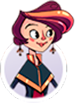
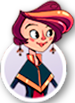
OperatingSystemApp: Edit design
- Application of new hover masks design for each subsystem
- Smoother fade-out effect for hover masks when moving out of any hover
  state
- Addition of EOS version text (1234) inside of the Operating System
  subsystem section
- Replace all character avatars thumbnails that show up next to each
  dialog bubble
- All subsystem hover masks are incomplete in the bottom border
  Hovers in the design didn't consider the whole screen height (even the
  OS toolbar height). When viewing the application on a secondary screen,
  for example, where you don't see the OS toolbar, the hover masks were
  cut down showing an empty horizontal bar.

https://phabricator.endlessm.com/T25730

diff --git a/com.endlessm.OperatingSystemApp/app/ui/styles.css b/com.endlessm.OperatingSystemApp/app/ui/styles.css
@@ -12,6 +12,10 @@
   box-sizing: border-box;
 }
 
+body {
+  top: -35px;
+}
+
 .clearfix:after,
 .clearfix:before {
   display: table;
@@ -30,31 +34,18 @@
   opacity: 0;
   position: absolute;
   right: 0;
-  top: -38px;
-  transition: opacity 0.5s ease-in-out;
+  top: 0;
   width: 1920px;
   z-index: 500;
 }
 
 .ui__mask.visible {
-  opacity: 0.55 !important;
-  transition: opacity 0.5s linear;
+  opacity: 1 !important;
+  transition: opacity 0.5s ease-out;
 }
 .ui__mask.hidden {
   opacity: 0;
-  transition: opacity 0.5s linear;
-}
-
-.ui__mask:after {
-  background-color: rgb(7, 8, 88);
-  bottom: -500px;
-  content: "\0020";
-  height: 500px;
-  left: 0;
-  position: absolute;
-  right: 0;
-  width: 1920px;
-  z-index: 500;
+  transition: opacity 0.7s ease-in;
 }
 
 .ui__mask.cursor_mask {
@@ -86,7 +77,7 @@
 }
 
 .ui__mask.system_mask {
-  background-color: rgb(7, 8, 88);
+  background-image: url('../images/hovers/system_mask.png');
 }
 
 .ui__mask.daemons_mask {
@@ -108,6 +99,19 @@
 
 .whole:hover {
   background-image: url(../images/system-icon-hover.png);
+}
+
+.whole-title {
+  color: white;
+  display: none;
+  font-family: Metropolis;
+  font-size: 24.4px;
+  font-weight: 400;
+  left: 135px;
+  position: absolute;
+  top: 951px;
+  width: 290px;
+  z-index: 505;
 }
 
 .ui__layer {
@@ -172,24 +176,28 @@
 
 .ui__layer-title {
   color: #fff;
-  display: inline-block;
+  display: inline;
   font-family: Metropolis, sans-serif;
   font-size: 55px;
   margin: 0;
   margin-left: 110px;
   opacity: 0;
-  position: absolute;
+  position: relative;
   text-shadow: 0 3px 10px rgba(0, 0, 0, 0.8);
   top: 65px;
   transition: visibility 0.9s ease-in-out, opacity 0.9s ease-in-out;
   visibility: hidden;
-  width: 600px;
   z-index: 710;
 }
 
 .ui__layer-title.visible {
-  visibility: visible;
   opacity: 1 !important;
+  visibility: visible;
+}
+
+.ui__layer-title.title-cursor,
+.ui__layer-title.title-daemons {
+  margin-left: 7px;
 }
 
 .ui__layer-content {
@@ -304,7 +312,7 @@
 
 .ui__box-bubble {
   border-radius: 0 15px 15px 15px;
-  box-shadow: 0px 5px 20px rgba(0, 0, 0, 0.4);
+  box-shadow: 0px 4px 9px rgba(0, 0, 0, 0.5);
   float: right;
   font-size: 17px;
   line-height: 26px;
@@ -431,8 +439,8 @@
 #cursor {
   border-radius: 0 0 145px 145px;
   height: 367px;
-  left: 166px;
-  width: 472px;
+  left: 178px;
+  width: 460px;
 }
 
 #window-manager {

diff --git a/com.endlessm.OperatingSystemApp/app/index.html b/com.endlessm.OperatingSystemApp/app/index.html
@@ -12,6 +12,7 @@
 
     <div class="bg-sys"></div>
     <div class="whole" id="system" data-id="system"></div>
+    <h2 class="whole-title">Version 1234</h2>
 
     <div id="cursor" class="ui__area" data-id="cursor"></div>
     <img src="images/hovers/cursor_rays.png" class="ui__hover cursor">
@@ -107,12 +108,19 @@
     <img src="images/front_sign.png" style="left: 702px; top: 804px;"/>
     <img src="images/fence_front_plants.png" style="left: 386px; top: 885px;"/>
 
-    <img src="images/hovers/deamons_rays.png" class="ui__hover cursor">
-    <img src="images/hovers/window_rays.png" class="ui__hover cursor">
+    <img src="images/hovers/deamons_rays.png" class="ui__hover daemons">
+    <img src="images/hovers/window_rays.png" class="ui__hover window">
 
     <img id="lighting" src="images/lighting.png" />
-
-    <div id="mask" class="ui__mask hidden"></div>
+    <div id="mask-cursor" class="cursor_mask ui__mask hidden"></div>
+    <div id="mask-window" class="window_mask ui__mask hidden"></div>
+    <div id="mask-memory" class="memory_mask ui__mask hidden"></div>
+    <div id="mask-file" class="file_mask ui__mask hidden"></div>
+    <div id="mask-dev" class="dev_mask ui__mask hidden"></div>
+    <div id="mask-kernel" class="kernel_mask ui__mask hidden"></div>
+    <div id="mask-clock" class="clock_mask ui__mask hidden"></div>
+    <div id="mask-daemons" class="daemons_mask ui__mask hidden"></div>
+    <div id="mask-system" class="system_mask ui__mask hidden"></div>
     <h1 class="ui__layer-title"></h1>
 
     <div class="ui__layer">

diff --git a/com.endlessm.OperatingSystemApp/app/ui/ui.js b/com.endlessm.OperatingSystemApp/app/ui/ui.js
@@ -31,6 +31,7 @@ class UserInterface {
       $(targetElement).unbind("mouseleave");
       this.showDialog($(targetElement).data("id"));
       this.mask.show($(targetElement).data("id"));
+      $(".whole-title").show();
     });
 
     $(".ui__daemon").click((event) => {
@@ -92,7 +93,7 @@ class UserInterface {
         $("#OS_daemon_7").addClass("daemon_7_still");
       }
     }, (event) => {
-      this.mask.hide(id, 500);
+      this.mask.hide(id);
 
       Sounds.terminate(`operatingSystem/${id}`);
       $(children).removeClass("current");
@@ -227,6 +228,7 @@ class UserInterface {
     if (this._currentAreaId !== "daemons") {
       $("#OS_daemon_7").removeClass("daemon_7_still");
     }
+    $(".whole-title").hide();
     this.applyHoverInteraction();
   };
 
@@ -283,22 +285,14 @@ class Mask {
   }
 
   show(maskClass) {
-    $(".ui__mask")
-      .addClass(`${maskClass}_mask`)
+    $(`#mask-${maskClass}`)
       .removeClass("hidden")
       .addClass("visible");
   }
-  hide(maskClass, delay) {
-    delay = delay || 0;
-
-     $(".ui__mask")
+  hide(maskClass) {
+    $(`#mask-${maskClass}`)
       .addClass("hidden")
       .removeClass("visible");
-
-    const lapseMask = setTimeout(function() {
-      $(".ui__mask")
-        .removeClass(`${maskClass}_mask`);
-    }, delay);
   }
 };
 
